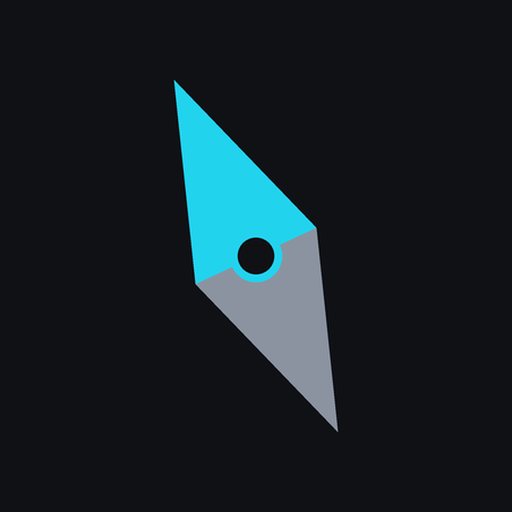
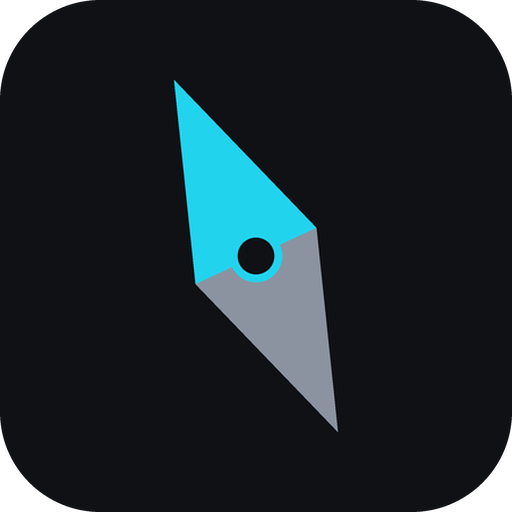
アプリアイコン(any用)の角を丸める
- icon-192/512.pngの四隅を透明にして角丸に(Drill・Vocab Cardと同じ半径200/1024)
  Windowsのタスクバー等、OSが形を切り抜かない場所で真四角に見えていたため
- apple-touch-iconはiOS側で角を丸めるので、全面背景のmaskable版を指すよう変更

diff --git a/static/index.html b/static/index.html
@@ -8,7 +8,7 @@
 <meta name="theme-color" content="#12151c">
 <meta name="apple-mobile-web-app-title" content="Compass">
 <link rel="icon" href="/static/icon-512.png">
-<link rel="apple-touch-icon" href="/static/icon-512.png">
+<link rel="apple-touch-icon" href="/static/icon-maskable-512.png">
 <link rel="stylesheet" href="/static/style.css">
 </head>
 <body>
